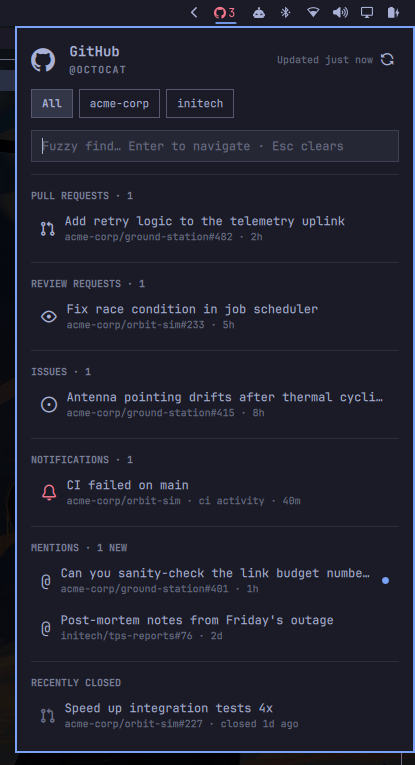
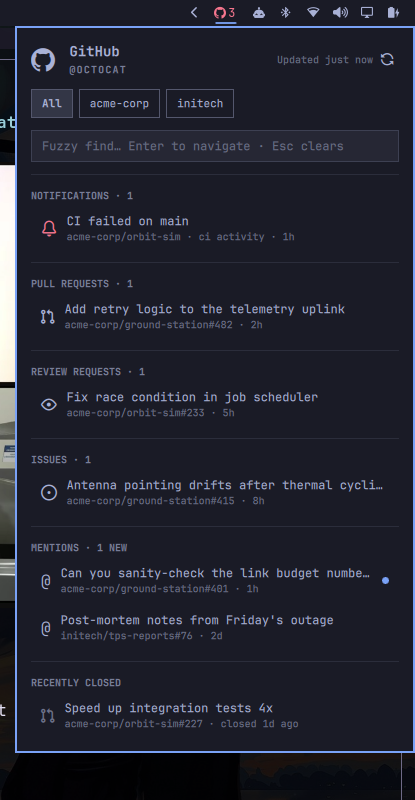
Show notifications at the top of the panel
Notifications are the most time-sensitive section, so they lead. The
flat keyboard-cursor bases, rowAt, and section jumps follow the new
display order; README section list and screenshot updated to match.

diff --git a/Panel.qml b/Panel.qml
@@ -161,11 +161,11 @@ Panel {
   readonly property var shownClosed: sectionRows(closed, "recently closed")
 
   // One flat cursor over every visible row, in display order.
-  readonly property int prBase: 0
-  readonly property int reviewBase: shownPrs.length
+  readonly property int notificationBase: 0
+  readonly property int prBase: shownNotifications.length
+  readonly property int reviewBase: prBase + shownPrs.length
   readonly property int issueBase: reviewBase + shownReviews.length
-  readonly property int notificationBase: issueBase + shownIssues.length
-  readonly property int mentionBase: notificationBase + shownNotifications.length
+  readonly property int mentionBase: issueBase + shownIssues.length
   readonly property int closedBase: mentionBase + shownMentions.length
   readonly property int rowCount: closedBase + shownClosed.length
 
@@ -185,10 +185,10 @@ Panel {
 
   function rowAt(i) {
     if (i < 0) return null
-    if (i < reviewBase) return { item: shownPrs[i], mention: false }
+    if (i < prBase) return { item: shownNotifications[i], mention: false, notification: true }
+    if (i < reviewBase) return { item: shownPrs[i - prBase], mention: false }
     if (i < issueBase) return { item: shownReviews[i - reviewBase], mention: false }
-    if (i < notificationBase) return { item: shownIssues[i - issueBase], mention: false }
-    if (i < mentionBase) return { item: shownNotifications[i - notificationBase], mention: false, notification: true }
+    if (i < mentionBase) return { item: shownIssues[i - issueBase], mention: false }
     if (i < closedBase) return { item: shownMentions[i - mentionBase], mention: true }
     if (i < rowCount) return { item: shownClosed[i - closedBase], mention: false }
     return null
@@ -204,10 +204,10 @@ Panel {
 
   function sectionStarts() {
     var starts = []
+    if (shownNotifications.length > 0) starts.push(notificationBase)
     if (shownPrs.length > 0) starts.push(prBase)
     if (shownReviews.length > 0) starts.push(reviewBase)
     if (shownIssues.length > 0) starts.push(issueBase)
-    if (shownNotifications.length > 0) starts.push(notificationBase)
     if (shownMentions.length > 0) starts.push(mentionBase)
     if (shownClosed.length > 0) starts.push(closedBase)
     return starts
@@ -687,6 +687,43 @@ Panel {
             wrapMode: Text.WordWrap
           }
 
+          // ---------- Notifications ----------
+          PanelSeparator {
+            visible: notificationSection.visible
+            foreground: root.foreground
+          }
+
+          Column {
+            id: notificationSection
+            visible: root.shownNotifications.length > 0
+            width: parent.width
+            spacing: Style.space(4)
+
+            PanelSectionHeader {
+              width: parent.width
+              text: "NOTIFICATIONS · " + root.shownNotifications.length
+              foreground: root.foreground
+              fontFamily: root.fontFamily
+            }
+
+            Repeater {
+              model: root.shownNotifications
+
+              ItemRow {
+                required property var modelData
+                required property int index
+                width: notificationSection.width
+                flatIndex: root.notificationBase + index
+                notification: true
+                item: modelData
+                glyph: ""
+                glyphColor: root.urgent
+                detail: modelData.repo + " · " + root.reasonLabel(modelData.reason)
+                  + " · " + root.timeAgo(modelData.updatedAt)
+              }
+            }
+          }
+
           // ---------- Pull requests ----------
           PanelSeparator {
             visible: prSection.visible
@@ -791,43 +828,6 @@ Panel {
                 item: modelData
                 glyph: ""
                 detail: modelData.repo + "#" + modelData.number + " · " + root.timeAgo(modelData.updatedAt)
-              }
-            }
-          }
-
-          // ---------- Notifications ----------
-          PanelSeparator {
-            visible: notificationSection.visible
-            foreground: root.foreground
-          }
-
-          Column {
-            id: notificationSection
-            visible: root.shownNotifications.length > 0
-            width: parent.width
-            spacing: Style.space(4)
-
-            PanelSectionHeader {
-              width: parent.width
-              text: "NOTIFICATIONS · " + root.shownNotifications.length
-              foreground: root.foreground
-              fontFamily: root.fontFamily
-            }
-
-            Repeater {
-              model: root.shownNotifications
-
-              ItemRow {
-                required property var modelData
-                required property int index
-                width: notificationSection.width
-                flatIndex: root.notificationBase + index
-                notification: true
-                item: modelData
-                glyph: ""
-                glyphColor: root.urgent
-                detail: modelData.repo + " · " + root.reasonLabel(modelData.reason)
-                  + " · " + root.timeAgo(modelData.updatedAt)
               }
             }
           }

diff --git a/README.md b/README.md
@@ -8,12 +8,12 @@ one click (or one keystroke) away from its page on GitHub.
 
 ## Sections
 
-- **Pull requests** — open PRs you authored or are assigned to (drafts dimmed)
-- **Review requests** — open PRs where your review was requested
-- **Issues** — open issues assigned to you
 - **Notifications** — your unread GitHub notifications, minus anything another
   section already represents; clicking a row dismisses it here *and* marks the
   thread read on GitHub
+- **Pull requests** — open PRs you authored or are assigned to (drafts dimmed)
+- **Review requests** — open PRs where your review was requested
+- **Issues** — open issues assigned to you
 - **Mentions** — the last 30 open threads you were mentioned in, with an
   unread dot that only lights up when *someone else* acts (your own comments
   and reactions never re-mark a thread) and clears when you open it
